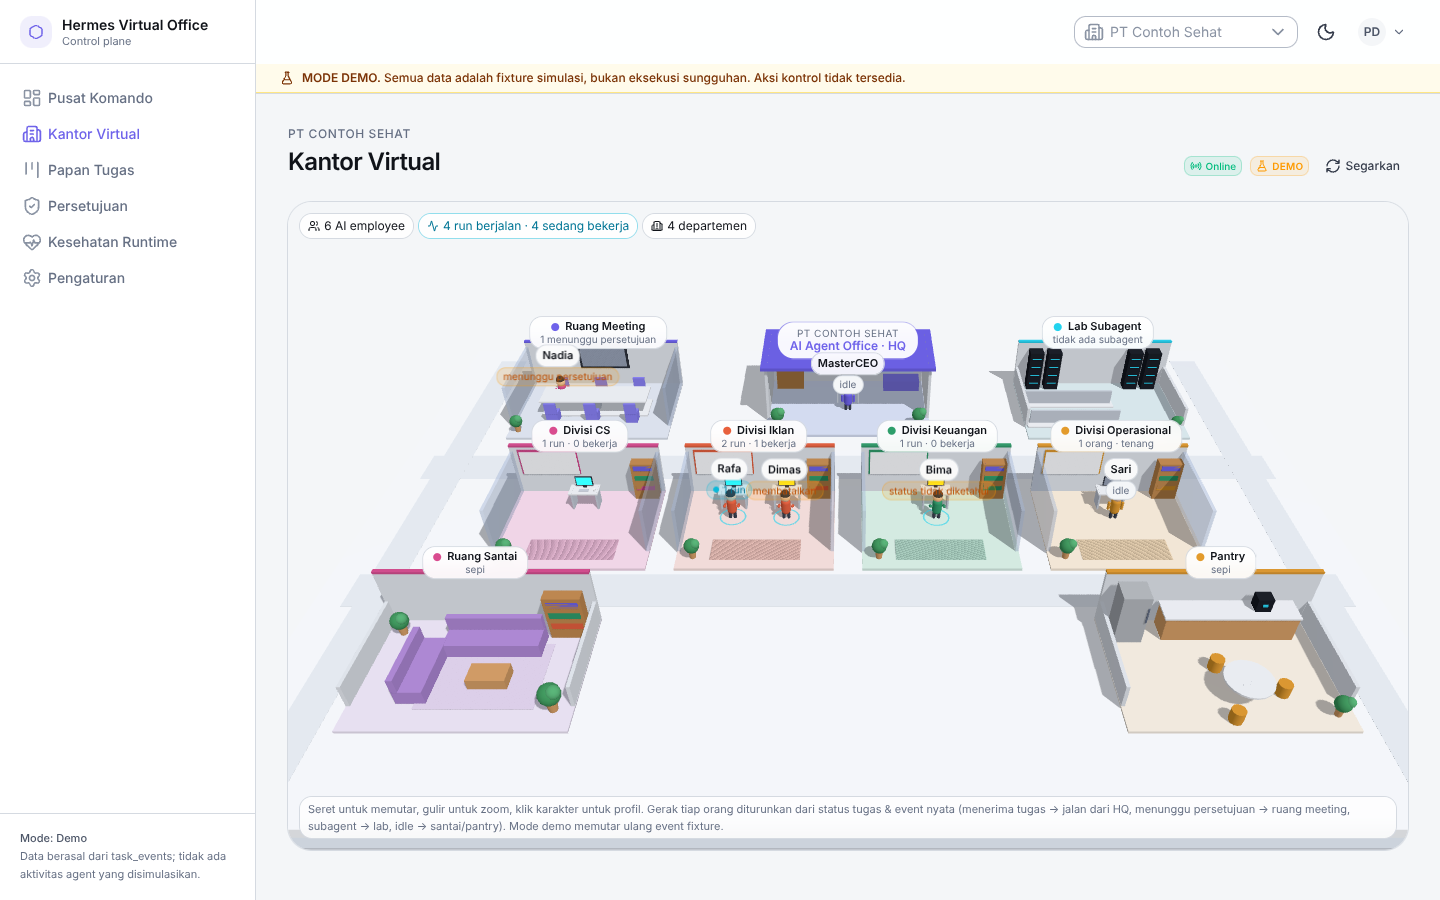
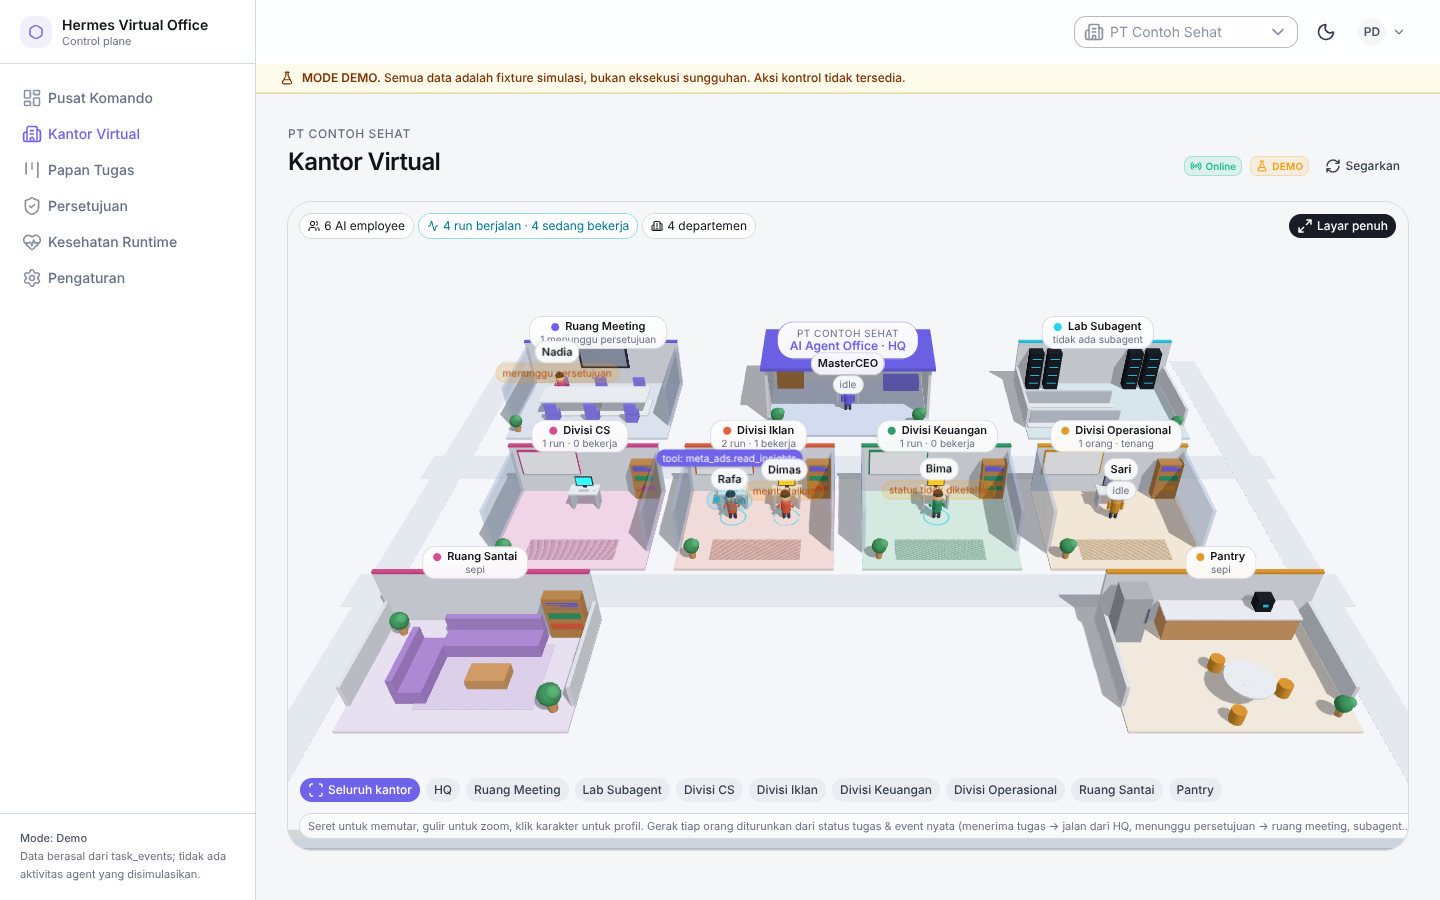
Kantor 3D: fokus ruangan (kamera meluncur ke HQ/Meeting/Lab/divisi/Santai/Pantry) + layar penuh
- chip fokus ruangan di bawah kanvas (bisa digulir di HP), animasi kamera halus lewat KantorFokusKamera di dalam kanvas
- tombol Layar penuh (Fullscreen API, fallback overlay fixed; Esc keluar)
- karakter di ruang meeting 'duduk'

Claude-Session: https://claude.ai/code/session_01GSzE6RRmwmmjLuCXgs3CsZ

diff --git a/app/pages/kantor.vue b/app/pages/kantor.vue
@@ -4,6 +4,7 @@
  * Invarian tetap: setiap karakter yang bergerak/menyala = run nyata di agent_runs; tidak ada aktivitas simulasi.
  */
 import type { KaryawanAI, TugasRingkas, EventRingkas } from '~~/shared/kontrak'
+import type { Titik } from '~/utils/kantor3d'
 
 useHead({ title: 'Kantor Virtual' })
 
@@ -48,6 +49,32 @@ onMounted(() => {
 onBeforeUnmount(() => { if (timerEvent) clearInterval(timerEvent) })
 
 const ringkasLokasi = ref<Record<string, number>>({})
+
+/* ── fokus ruangan (chip) & layar penuh ── */
+type Ruang = { id: string, nama: string, posisi: Titik, jarak: number }
+const daftarRuang = ref<Ruang[]>([])
+const fokusId = ref<string>('semua')
+const fokus = computed(() => daftarRuang.value.find(r => r.id === fokusId.value) ?? null)
+
+const wadahKantor = ref<HTMLElement | null>(null)
+const layarPenuh = ref(false)
+const dukungFullscreen = computed(() => import.meta.client && !!document.documentElement.requestFullscreen)
+async function toggleLayarPenuh() {
+  const el = wadahKantor.value
+  if (!el) return
+  if (dukungFullscreen.value) {
+    try {
+      if (!document.fullscreenElement) await el.requestFullscreen()
+      else await document.exitFullscreen()
+      return
+    } catch { /* jatuh ke mode overlay */ }
+  }
+  layarPenuh.value = !layarPenuh.value
+}
+function sinkronFullscreen() { layarPenuh.value = !!document.fullscreenElement }
+function tombolEsc(e: KeyboardEvent) { if (e.key === 'Escape' && layarPenuh.value && !document.fullscreenElement) layarPenuh.value = false }
+onMounted(() => { document.addEventListener('fullscreenchange', sinkronFullscreen); window.addEventListener('keydown', tombolEsc) })
+onBeforeUnmount(() => { document.removeEventListener('fullscreenchange', sinkronFullscreen); window.removeEventListener('keydown', tombolEsc) })
 const terputus = computed(() => ringkas.value?.runtime.status === 'offline')
 
 /* Laci profil & laci tugas */
@@ -108,9 +135,14 @@ async function mintaBatal(taskId: string) {
         </template>
       </Keadaan>
     </UCard>
-    <div v-else-if="ringkas" class="relative rounded-xl ring-1 ring-default overflow-hidden bg-shell" :style="{ height: 'clamp(480px, 72vh, 860px)' }">
+    <div
+      v-else-if="ringkas"
+      ref="wadahKantor"
+      :class="['relative overflow-hidden bg-shell', layarPenuh ? 'fixed inset-0 z-50' : 'rounded-xl ring-1 ring-default']"
+      :style="layarPenuh ? undefined : { height: 'clamp(480px, 72vh, 860px)' }"
+    >
       <ClientOnly>
-        <KantorSceneKantor :karyawan="karyawan" :tugas="daftarTugas ?? []" :events="eventKoreografi" :nama-org="ringkas.org.name" :terpilih-id="karyawanDipilih?.id" @pilih="pilihKaryawan" @ringkas-lokasi="ringkasLokasi = $event" />
+        <KantorSceneKantor :karyawan="karyawan" :tugas="daftarTugas ?? []" :events="eventKoreografi" :nama-org="ringkas.org.name" :terpilih-id="karyawanDipilih?.id" :fokus="fokus" @pilih="pilihKaryawan" @ringkas-lokasi="ringkasLokasi = $event" @daftar-ruang="daftarRuang = $event" />
         <template #fallback><Keadaan jenis="memuat" judul="Menyiapkan kantor 3D…" deskripsi="Membutuhkan WebGL di peramban." /></template>
       </ClientOnly>
 
@@ -122,7 +154,19 @@ async function mintaBatal(taskId: string) {
         <span v-if="ringkasLokasi.meeting" class="text-xs px-2 py-1 rounded-md bg-default/90 ring-1 ring-amber-500/40 backdrop-blur-sm text-amber-700 dark:text-amber-300 tnum"><UIcon name="i-lucide-shield-question" class="size-3 mr-1 align-[-2px]" aria-hidden="true" />{{ ringkasLokasi.meeting }} di ruang meeting</span>
         <span v-if="(ringkasLokasi.lounge ?? 0) + (ringkasLokasi.pantry ?? 0)" class="text-xs px-2 py-1 rounded-md bg-default/90 ring-1 ring-default backdrop-blur-sm text-muted tnum"><UIcon name="i-lucide-coffee" class="size-3 mr-1 align-[-2px]" aria-hidden="true" />{{ (ringkasLokasi.lounge ?? 0) + (ringkasLokasi.pantry ?? 0) }} istirahat</span>
       </div>
-      <p class="absolute bottom-3 left-3 right-3 text-[11px] text-muted bg-default/80 backdrop-blur-sm rounded-md px-2 py-1 ring-1 ring-default w-fit max-w-full pointer-events-none">
+      <div class="absolute top-3 right-3 flex items-center gap-1.5">
+        <UButton :icon="layarPenuh ? 'i-lucide-minimize-2' : 'i-lucide-maximize-2'" :label="layarPenuh ? 'Keluar' : 'Layar penuh'" size="xs" color="neutral" variant="solid" :aria-label="layarPenuh ? 'Keluar layar penuh' : 'Layar penuh'" @click="toggleLayarPenuh" />
+      </div>
+
+      <!-- chip fokus ruangan: bisa digulir di HP -->
+      <div class="absolute bottom-12 left-3 right-3 overflow-x-auto no-scrollbar" role="tablist" aria-label="Fokus ruangan">
+        <div class="flex gap-1.5 w-max pr-3">
+          <UButton size="xs" :color="fokusId === 'semua' ? 'primary' : 'neutral'" :variant="fokusId === 'semua' ? 'solid' : 'soft'" icon="i-lucide-scan" label="Seluruh kantor" role="tab" :aria-selected="fokusId === 'semua'" @click="fokusId = 'semua'" />
+          <UButton v-for="r in daftarRuang" :key="r.id" size="xs" :color="fokusId === r.id ? 'primary' : 'neutral'" :variant="fokusId === r.id ? 'solid' : 'soft'" :label="r.nama" role="tab" :aria-selected="fokusId === r.id" @click="fokusId = r.id" />
+        </div>
+      </div>
+
+      <p class="absolute bottom-3 left-3 right-3 text-[11px] text-muted bg-default/80 backdrop-blur-sm rounded-md px-2 py-1 ring-1 ring-default w-fit max-w-full pointer-events-none truncate">
         Seret untuk memutar, gulir untuk zoom, klik karakter untuk profil. Gerak tiap orang diturunkan dari status tugas & event nyata (menerima tugas → jalan dari HQ, menunggu persetujuan → ruang meeting, subagent → lab, idle → santai/pantry).<span v-if="demo"> Mode demo memutar ulang event fixture.</span>
       </p>
     </div>

diff --git a/app/components/kantor/SceneKantor.client.vue b/app/components/kantor/SceneKantor.client.vue
@@ -6,7 +6,9 @@
 import { OrbitControls } from '@tresjs/cientos'
 import { NoToneMapping, SRGBColorSpace } from 'three'
 import type { KaryawanAI, TugasRingkas, EventRingkas } from '~~/shared/kontrak'
-import { posisiZona, ukuranRuangDivisi, LANTAI, RUANG } from '~/utils/kantor3d'
+import { shallowRef } from 'vue'
+import type { OrbitControls as OrbitControlsTipe } from 'three-stdlib'
+import { posisiZona, ukuranRuangDivisi, LANTAI, RUANG, type Titik } from '~/utils/kantor3d'
 import { turunkanAksi, turunkanAksiSupervisor, type AksiKarakter } from '~/utils/koreografi'
 import type { Lokasi } from './KarakterAI.vue'
 
@@ -16,8 +18,10 @@ const props = withDefaults(defineProps<{
   events: EventRingkas[]
   namaOrg: string
   terpilihId?: string | null
-}>(), { terpilihId: null })
-const emit = defineEmits<{ pilih: [karyawan: KaryawanAI], ringkasLokasi: [r: Record<Lokasi, number>] }>()
+  /** Fokus kamera: posisi ruangan + jarak; null = tampilan seluruh kantor. */
+  fokus?: { id: string, posisi: Titik, jarak: number } | null
+}>(), { terpilihId: null, fokus: null })
+const emit = defineEmits<{ pilih: [karyawan: KaryawanAI], ringkasLokasi: [r: Record<Lokasi, number>], daftarRuang: [r: { id: string, nama: string, posisi: Titik, jarak: number }[]] }>()
 
 const colorMode = useColorMode()
 const gelap = computed(() => colorMode.value === 'dark')
@@ -26,6 +30,16 @@ const latar = computed(() => gelap.value ? '#101319' : '#F4F6F8')
 const sempit = ref(typeof window !== 'undefined' && window.innerWidth < 768)
 const posisiKamera = computed<[number, number, number]>(() => sempit.value ? [0, 26, 33] : [0, 21, 26])
 const fov = computed(() => sempit.value ? 56 : 40)
+
+/* ── fokus kamera: dijalankan oleh KantorFokusKamera di dalam kanvas ── */
+// Template ref ke komponen OrbitControls: `instance` (ShallowRef) sudah di-unwrap oleh proxy komponen,
+// tetapi dijaga untuk kedua bentuk supaya tidak bergantung pada detail implementasi cientos.
+const kontrol = shallowRef<{ instance: OrbitControlsTipe | { value: OrbitControlsTipe | null } | null } | null>(null)
+const instansKontrol = computed<OrbitControlsTipe | null>(() => {
+  const i = kontrol.value?.instance
+  if (!i) return null
+  return 'update' in i ? i : (i.value ?? null)
+})
 
 /* jam berjalan supaya mode berbasis waktu (reaksi ≤90 dtk, rayakan ≤3 mnt) ikut bergeser */
 const sekarang = ref(Date.now())
@@ -41,6 +55,17 @@ const departemen = computed(() => {
   const ukuran = daftar.map(d => ukuranRuangDivisi(d.daftar.length, daftar.length))
   return daftar.map((d, i) => ({ ...d, ...ukuran[i]!, position: posisiZona(i, daftar.length, ukuran.map(u => u.lebar)) }))
 })
+/* daftar ruangan untuk chip fokus di halaman */
+watch(departemen, (d) => {
+  emit('daftarRuang', [
+    { id: 'hq', nama: 'HQ', posisi: RUANG.hq, jarak: 9 },
+    { id: 'meeting', nama: 'Ruang Meeting', posisi: RUANG.meeting, jarak: 9 },
+    { id: 'lab', nama: 'Lab Subagent', posisi: RUANG.lab, jarak: 9 },
+    ...d.map(x => ({ id: `divisi:${x.nama}`, nama: `Divisi ${x.nama}`, posisi: x.position, jarak: Math.max(8, x.lebar * 1.3) })),
+    { id: 'santai', nama: 'Ruang Santai', posisi: RUANG.lounge, jarak: 9 },
+    { id: 'pantry', nama: 'Pantry', posisi: RUANG.pantry, jarak: 9 }
+  ])
+}, { immediate: true })
 
 const aksiPer = computed<Record<string, AksiKarakter>>(() => {
   const hasil: Record<string, AksiKarakter> = {}
@@ -70,7 +95,9 @@ const aksiSupervisor = computed<AksiKarakter>(() => supervisor.value ? aksiPer.v
 <template>
   <TresCanvas :clear-color="latar" shadows :tone-mapping="NoToneMapping" :output-color-space="SRGBColorSpace" :dpr="[1, 1.5]">
     <TresPerspectiveCamera :position="posisiKamera" :fov="fov" :look-at="[0, 0.3, 0.8]" />
-    <OrbitControls :enable-pan="true" :min-distance="14" :max-distance="48" :min-polar-angle="0.45" :max-polar-angle="1.3" :target="[0, 0.3, 0.8]" />
+    <OrbitControls ref="kontrol" :enable-pan="true" :min-distance="14" :max-distance="48" :min-polar-angle="0.45" :max-polar-angle="1.3" :target="[0, 0.3, 0.8]" />
+
+    <KantorFokusKamera :kontrol="instansKontrol" :fokus="fokus ?? null" :kamera-awal="posisiKamera" :arah-awal="[0, 0.3, 0.8]" />
 
     <TresAmbientLight :intensity="gelap ? 0.55 : 0.85" />
     <TresDirectionalLight :position="[8, 18, 10]" :intensity="gelap ? 1.5 : 2.1" cast-shadow :shadow-mapSize-width="2048" :shadow-mapSize-height="2048"

diff --git a/app/components/kantor/FokusKamera.vue b/app/components/kantor/FokusKamera.vue
@@ -1,0 +1,36 @@
+<script setup lang="ts">
+/** Menggerakkan kamera + target OrbitControls secara halus ke ruangan yang difokuskan. Harus berada di dalam TresCanvas. */
+import { useLoop } from '@tresjs/core'
+import type { OrbitControls } from 'three-stdlib'
+import type { Titik } from '~/utils/kantor3d'
+
+const props = defineProps<{
+  kontrol: OrbitControls | null
+  fokus: { id: string, posisi: Titik, jarak: number } | null
+  kameraAwal: Titik
+  arahAwal: Titik
+}>()
+
+let animasiSampai = 0
+let targetKamera: Titik = props.kameraAwal, targetArah: Titik = props.arahAwal
+watch(() => props.fokus?.id, () => {
+  const f = props.fokus
+  if (f) { targetArah = [f.posisi[0], 0.3, f.posisi[2]]; targetKamera = [f.posisi[0], f.jarak * 0.85, f.posisi[2] + f.jarak] }
+  else { targetArah = props.arahAwal; targetKamera = props.kameraAwal }
+  animasiSampai = -1
+})
+
+const { onBeforeRender } = useLoop()
+onBeforeRender(({ delta, elapsed }) => {
+  const c = props.kontrol
+  if (!c) return
+  if (animasiSampai < 0) animasiSampai = elapsed + 1.6
+  if (elapsed > animasiSampai) return
+  const k = 1 - Math.exp(-5 * delta)
+  c.target.lerp({ x: targetArah[0], y: targetArah[1], z: targetArah[2] } as never, k)
+  c.object.position.lerp({ x: targetKamera[0], y: targetKamera[1], z: targetKamera[2] } as never, k)
+  c.update()
+})
+</script>
+
+<template><TresGroup /></template>

diff --git a/app/components/kantor/KarakterAI.vue b/app/components/kantor/KarakterAI.vue
@@ -147,6 +147,8 @@ onBeforeRender(({ delta, elapsed }) => {
   if (rayakanSampai < 0) rayakanSampai = elapsed + 2.0
   if (elapsed < lompatSampai) y += Math.sin((1 - (lompatSampai - elapsed) / 0.6) * Math.PI) * 0.28
   if (elapsed < rayakanSampai) y += Math.abs(Math.sin(elapsed * 9)) * 0.22
+  // "duduk" di kursi meeting: badan turun sedikit
+  if (!berjalan && tujuan === t.meeting) y -= 0.26
   g.position.y = y
 })
 

diff --git a/app/assets/css/main.css b/app/assets/css/main.css
@@ -80,3 +80,5 @@
 @utility bg-shell { background-color: var(--ui-bg-shell); }
 /* Angka metrik: tabular agar kolom rata. */
 @utility tnum { font-variant-numeric: tabular-nums; }
+
+@utility no-scrollbar { scrollbar-width: none; &::-webkit-scrollbar { display: none; } }

diff --git a/docs/design/tokens.md b/docs/design/tokens.md
@@ -23,7 +23,7 @@ Font: Inter / system. Angka metrik `tabular-nums` (`tnum`). Fokus keyboard: outl
 
 ## Arsitektur informasi (navigasi)
 1. **Pusat Komando** `/` — KPI, komposer perintah (live), tugas aktif, aktivitas, persetujuan, kesehatan runtime, roster AI employee.
-2. **Kantor Virtual** `/kantor` — kantor 3D (Three.js/TresJS) dengan denah: Ruang Meeting · HQ supervisor · Lab Subagent (belakang), ruangan per divisi berkaca dengan papan tulis & meja berjajar (tengah), Ruang Santai · Pantry (depan). **Koreografi berbasis data** (`app/utils/koreografi.ts`): menerima tugas → jalan dari HQ ke meja; RUNNING → mengetik (tempo = jumlah event nyata); event `tool.completed` → gerakan kecil + chip; `subagent.started` → asisten kecil ke Lab; WAITING_APPROVAL → duduk di Ruang Meeting; CANCEL_REQUESTED/UNKNOWN → layar amber; selesai → lompat; idle → sesekali ke Santai/Pantry (label tetap idle). Mode demo memutar ulang event fixture (berlabel DEMO); live memakai event nyata (poll 15 dtk).
+2. **Kantor Virtual** `/kantor` — kantor 3D (Three.js/TresJS) dengan denah: Ruang Meeting · HQ supervisor · Lab Subagent (belakang), ruangan per divisi berkaca dengan papan tulis & meja berjajar (tengah), Ruang Santai · Pantry (depan). **Koreografi berbasis data** (`app/utils/koreografi.ts`): menerima tugas → jalan dari HQ ke meja; RUNNING → mengetik (tempo = jumlah event nyata); event `tool.completed` → gerakan kecil + chip; `subagent.started` → asisten kecil ke Lab; WAITING_APPROVAL → duduk di Ruang Meeting; CANCEL_REQUESTED/UNKNOWN → layar amber; selesai → lompat; idle → sesekali ke Santai/Pantry (label tetap idle). Mode demo memutar ulang event fixture (berlabel DEMO); live memakai event nyata (poll 15 dtk). Kontrol: chip **fokus ruangan** (kamera meluncur halus ke HQ/Meeting/Lab/tiap divisi/Santai/Pantry, berguna di HP) dan tombol **Layar penuh** (Fullscreen API, fallback overlay).
 3. Papan Tugas `/tugas` — tabel/kanban status (placeholder).
 4. Persetujuan `/persetujuan` (placeholder). 5. Kesehatan Runtime `/runtime` (placeholder). 6. Pengaturan `/pengaturan` (placeholder).
 Top bar: pemilih perusahaan (`USelectMenu`), mode warna, menu pengguna. Mobile: `USlideover`. Banner DEMO global saat demo.
